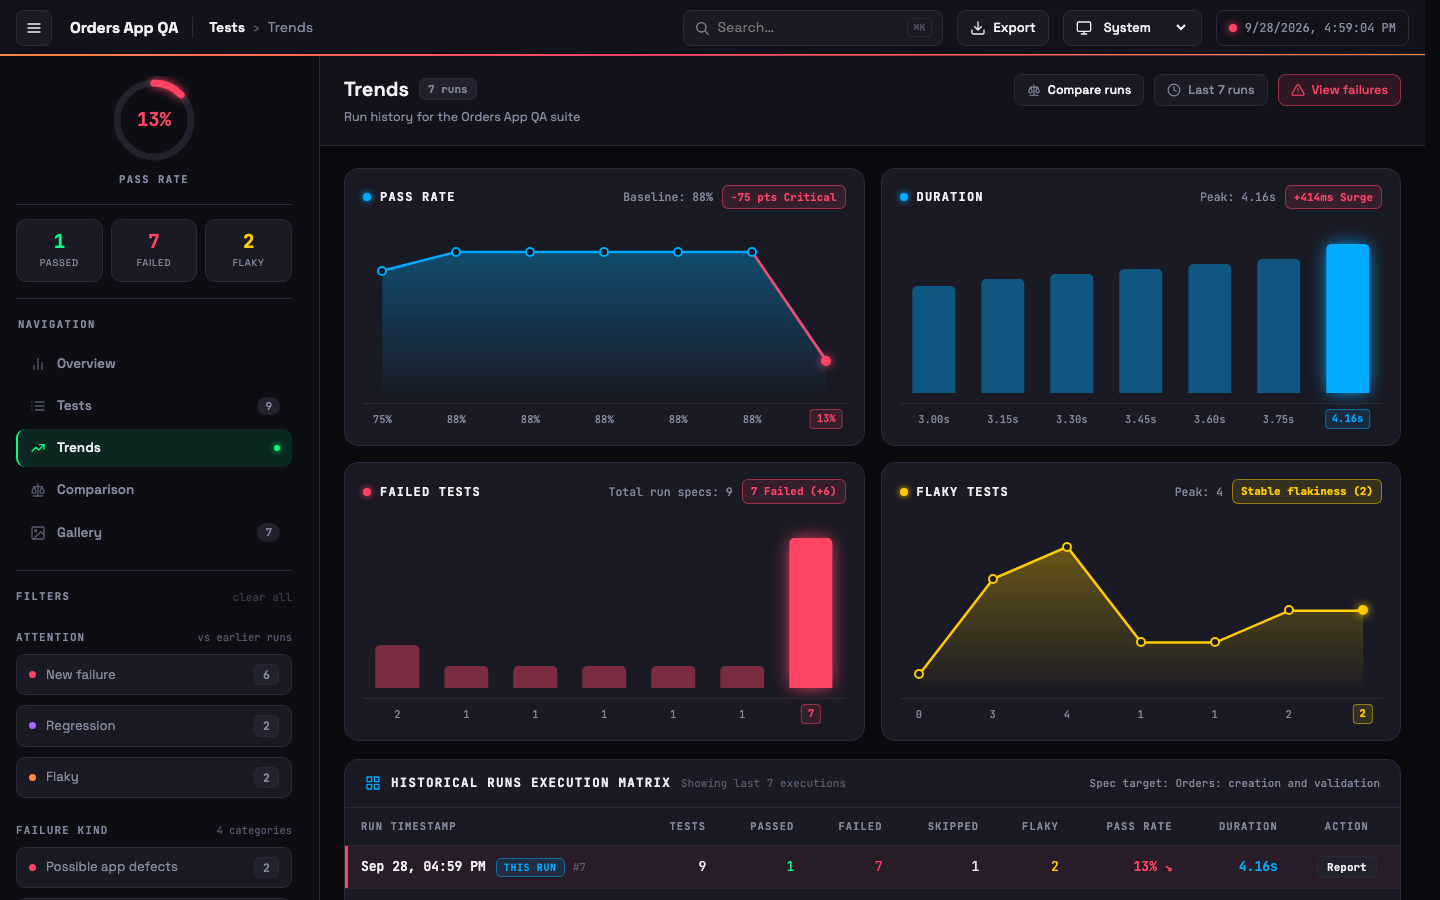
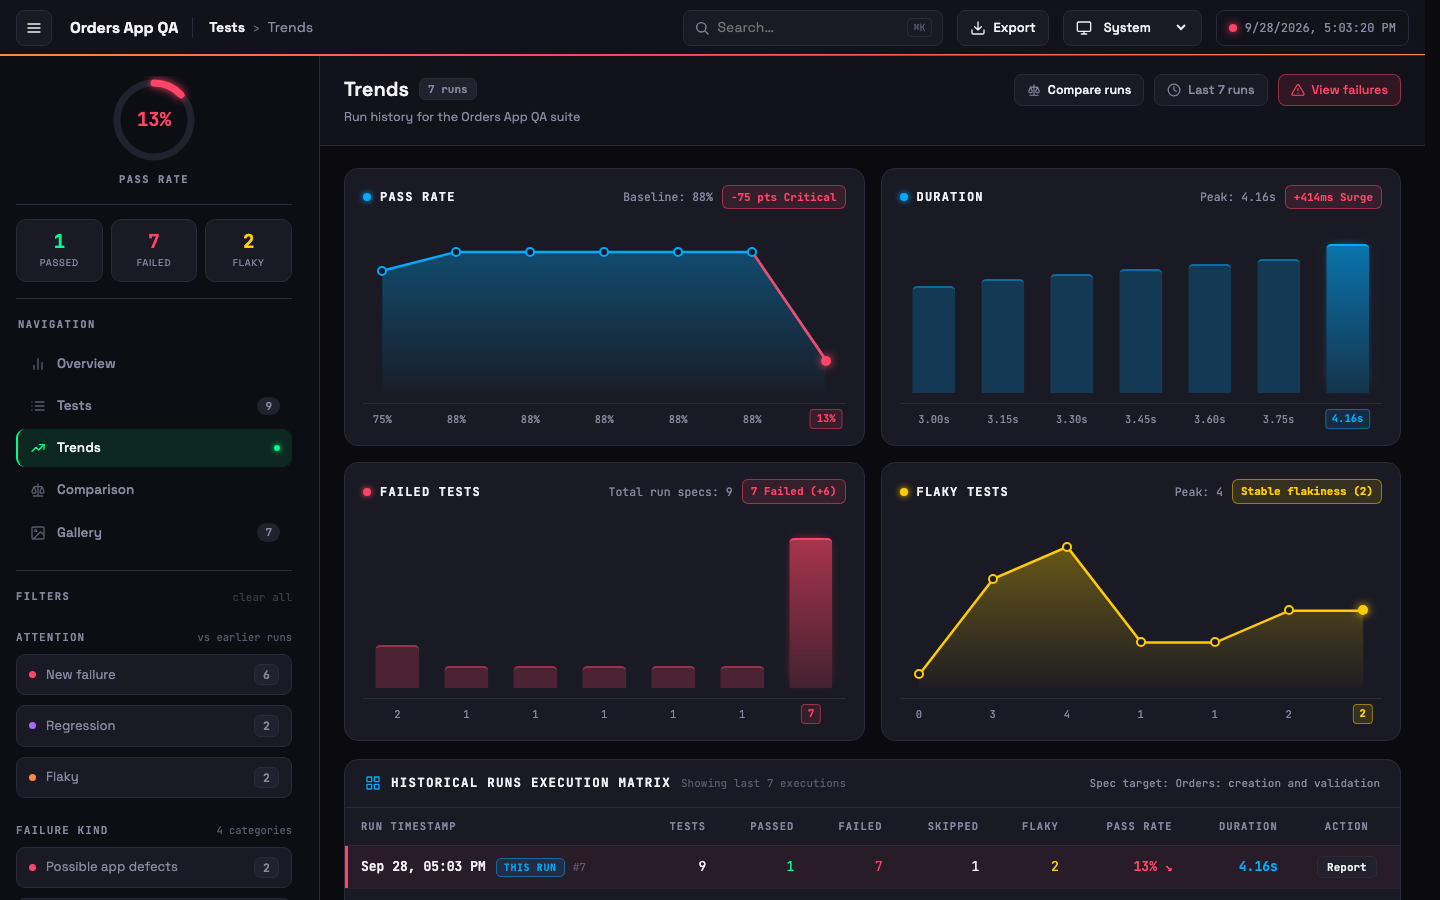
Soften the trend bar colours
The current run's bar was a solid, glowing block of red, hard on the eyes
next to the muted history bars. It is now a gradient that fades toward
the base with a bright top edge, and past bars are more muted, so the
current run still stands out without the glare.

Changed region(s): [[0.625, 0.2489, 0.9688, 0.4667], [0.25, 0.5911, 0.5938, 0.7778]]

diff --git a/src/render.js b/src/render.js
@@ -1304,9 +1304,10 @@ a.tbtn:hover{border-color:var(--glow);background:var(--hover)}
 .tline.alert{stroke:var(--red)}
 .spt.alert{--tone:var(--red)}
 .tbarcol{position:absolute;bottom:0;top:0;width:9%;transform:translateX(-50%);display:flex;align-items:flex-end}
-.tbar2{position:relative;display:block;width:100%;border-radius:5px 5px 0 0;background:color-mix(in srgb,var(--tone) 42%,transparent);cursor:pointer;outline:none}
-.tbar2:hover,.tbar2:focus-visible{background:color-mix(in srgb,var(--tone) 70%,transparent)}
-.tbar2.cur{background:var(--tone);box-shadow:0 0 18px -2px var(--tone)}
+.tbar2{position:relative;display:block;width:100%;border-radius:5px 5px 0 0;background:color-mix(in srgb,var(--tone) 22%,transparent);border-top:2px solid color-mix(in srgb,var(--tone) 45%,transparent);cursor:pointer;outline:none}
+.tbar2:hover,.tbar2:focus-visible{background:color-mix(in srgb,var(--tone) 34%,transparent)}
+/* The current run stands out by shape and a top edge, not by a wall of solid colour. */
+.tbar2.cur{background:linear-gradient(180deg,color-mix(in srgb,var(--tone) 62%,transparent),color-mix(in srgb,var(--tone) 18%,transparent));border-top-color:var(--tone);box-shadow:0 -2px 10px -6px var(--tone)}
 .tbar2::after{content:attr(data-tip);position:absolute;bottom:calc(100% + 8px);left:50%;transform:translateX(-50%);z-index:5;min-width:220px;max-width:300px;padding:9px 11px;border-radius:9px;border:1px solid var(--border);
 background:var(--bg2);color:var(--fg);font:500 12px/1.55 var(--mono);text-align:left;white-space:pre-line;box-shadow:0 14px 34px -10px rgba(0,0,0,.6);opacity:0;pointer-events:none;transition:opacity .12s}
 .tbar2.tl::after{left:0;transform:none}.tbar2.tr::after{left:auto;right:0;transform:none}

diff --git a/test/fixtures/expected-report.html b/test/fixtures/expected-report.html
@@ -359,9 +359,10 @@ a.tbtn:hover{border-color:var(--glow);background:var(--hover)}
 .tline.alert{stroke:var(--red)}
 .spt.alert{--tone:var(--red)}
 .tbarcol{position:absolute;bottom:0;top:0;width:9%;transform:translateX(-50%);display:flex;align-items:flex-end}
-.tbar2{position:relative;display:block;width:100%;border-radius:5px 5px 0 0;background:color-mix(in srgb,var(--tone) 42%,transparent);cursor:pointer;outline:none}
-.tbar2:hover,.tbar2:focus-visible{background:color-mix(in srgb,var(--tone) 70%,transparent)}
-.tbar2.cur{background:var(--tone);box-shadow:0 0 18px -2px var(--tone)}
+.tbar2{position:relative;display:block;width:100%;border-radius:5px 5px 0 0;background:color-mix(in srgb,var(--tone) 22%,transparent);border-top:2px solid color-mix(in srgb,var(--tone) 45%,transparent);cursor:pointer;outline:none}
+.tbar2:hover,.tbar2:focus-visible{background:color-mix(in srgb,var(--tone) 34%,transparent)}
+/* The current run stands out by shape and a top edge, not by a wall of solid colour. */
+.tbar2.cur{background:linear-gradient(180deg,color-mix(in srgb,var(--tone) 62%,transparent),color-mix(in srgb,var(--tone) 18%,transparent));border-top-color:var(--tone);box-shadow:0 -2px 10px -6px var(--tone)}
 .tbar2::after{content:attr(data-tip);position:absolute;bottom:calc(100% + 8px);left:50%;transform:translateX(-50%);z-index:5;min-width:220px;max-width:300px;padding:9px 11px;border-radius:9px;border:1px solid var(--border);
 background:var(--bg2);color:var(--fg);font:500 12px/1.55 var(--mono);text-align:left;white-space:pre-line;box-shadow:0 14px 34px -10px rgba(0,0,0,.6);opacity:0;pointer-events:none;transition:opacity .12s}
 .tbar2.tl::after{left:0;transform:none}.tbar2.tr::after{left:auto;right:0;transform:none}

diff --git a/CHANGELOG.md b/CHANGELOG.md
@@ -31,6 +31,8 @@ Will ship as **0.1.1** (already set in `package.json`).
   that run's failed tests, flaky tests and gate result.
 - Fix: the Pass rate and Flaky tests charts rendered as solid black, because
   their styles had been removed along with the old sparklines.
+- Trend bars are softer: the current run is a fading gradient with a bright
+  top edge instead of a solid, glowing block.
 
 ## 0.1.0 · 2026-09-28
 
